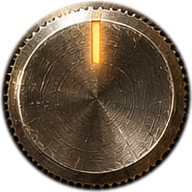
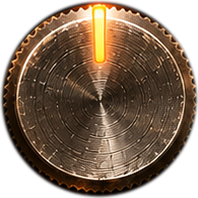
ROTARY: nouveau visuel portrait (8 crans, chrono, voyants, validation) v1.0.70
Claude-Session: https://claude.ai/code/session_01LC4gtLQkEJ3UYNeS2LBYM3

diff --git a/js/rotary.js b/js/rotary.js
@@ -4,17 +4,16 @@
 (function () {
   "use strict";
   var P = "assets/rotary/";
-  var KNOBS = { A: [380, 335], B: [862, 335], C: [380, 772], D: [862, 772] };
+  var KNOBS = { A: [253, 478], B: [690, 478], C: [253, 1003], D: [690, 1003] };
   var NAMES = ["A", "B", "C", "D"];
-  // 10 crans = les 10 symboles gravés sur la couronne (décalage depuis le centre de la molette, en px du visuel)
+  // 8 crans = les 8 symboles gravés sur la couronne (décalage depuis le centre de la molette, en px du visuel 941 × 1672)
   var SYMS = [
-    { n: "triangle", dx: -1, dy: -123, a: 0 }, { n: "cercle", dx: 80, dy: -113, a: 35 }, { n: "carré", dx: 129, dy: -52, a: 68 },
-    { n: "croix", dx: 136, dy: 11, a: 95 }, { n: "losange", dx: 113, dy: 87, a: 128 }, { n: "onde", dx: 53, dy: 136, a: 159 },
-    { n: "étoile", dx: -41, dy: 137, a: 197 }, { n: "cible", dx: -117, dy: 83, a: 235 }, { n: "étoile 2", dx: -145, dy: 10, a: 266 },
-    { n: "losange 2", dx: -120, dy: -75, a: 302 }
+    { n: "triangle", dx: 1, dy: -126, a: 0 }, { n: "cercle", dx: 107, dy: -93, a: 49 }, { n: "carré", dx: 144, dy: 1, a: 90 },
+    { n: "croix", dx: 111, dy: 98, a: 131 }, { n: "losange", dx: 1, dy: 148, a: 180 }, { n: "onde", dx: -108, dy: 100, a: 227 },
+    { n: "étoile", dx: -145, dy: 1, a: 270 }, { n: "cible", dx: -107, dy: -95, a: 311 }
   ];
-  var LEDS = { sys: [157, 1074, "orange"], sync: [157, 1120, "orange"], ready: [157, 1167, "green"] };
-  var BTN = [619, 1130];
+  var LEDS = { sys: [102, 1387, "orange"], sync: [102, 1456, "orange"], ready: [102, 1525, "green"] };
+  var BTN = [468, 1450];
 
   // ---- son : clic métallique synthétisé (aucun fichier à télécharger) ----
   var ac = null;
@@ -59,9 +58,9 @@
     var timeEl = el("zr-time"); timeEl.textContent = "--:--"; stage.appendChild(timeEl);
 
     // liaisons entre molettes
-    var NS = "http://www.w3.org/2000/svg", svg = document.createElementNS(NS, "svg"); svg.setAttribute("class", "zr-links"); svg.setAttribute("viewBox", "0 0 1241 1267");
+    var NS = "http://www.w3.org/2000/svg", svg = document.createElementNS(NS, "svg"); svg.setAttribute("class", "zr-links"); svg.setAttribute("viewBox", "0 0 941 1672");
     var pairs = [[0, 1], [2, 3], [0, 2], [1, 3]], lines = pairs.map(function (p) {
-      var a = KNOBS[NAMES[p[0]]], b = KNOBS[NAMES[p[1]]], dx = b[0] - a[0], dy = b[1] - a[1], L = Math.hypot(dx, dy), u = [dx / L, dy / L], m = 158;
+      var a = KNOBS[NAMES[p[0]]], b = KNOBS[NAMES[p[1]]], dx = b[0] - a[0], dy = b[1] - a[1], L = Math.hypot(dx, dy), u = [dx / L, dy / L], m = 128;
       var ln = document.createElementNS(NS, "line"); ln.setAttribute("x1", a[0] + u[0] * m); ln.setAttribute("y1", a[1] + u[1] * m); ln.setAttribute("x2", b[0] - u[0] * m); ln.setAttribute("y2", b[1] - u[1] * m);
       svg.appendChild(ln); return ln;
     });
@@ -70,24 +69,24 @@
     // molettes
     var knobs = NAMES.map(function (nm, i) {
       var c = KNOBS[nm], k = el("zr-k"); k.style.cssText = "position:absolute;inset:0;pointer-events:none";
-      var ring = at(el("zr-at zr-ring"), c[0], c[1], 214);
-      var cap = at(el("zr-at"), c[0], c[1], 192); var ci = img("knob_" + nm.toLowerCase() + ".png"); ci.className = "zr-cap"; cap.appendChild(ci);
+      var ring = at(el("zr-at zr-ring"), c[0], c[1], 226);
+      var cap = at(el("zr-at"), c[0], c[1], 198); var ci = img("knob_" + nm.toLowerCase() + ".png"); ci.className = "zr-cap"; cap.appendChild(ci);
       var sym = at(el("zr-at zr-sym"), c[0], c[1], 64);
-      var hit = at(el("zr-at zr-hit"), c[0], c[1], 300); hit.style.pointerEvents = "auto"; hit.setAttribute("role", "slider"); hit.tabIndex = 0; hit.setAttribute("aria-label", "Sélecteur " + nm);
+      var hit = at(el("zr-at zr-hit"), c[0], c[1], 280); hit.style.pointerEvents = "auto"; hit.setAttribute("role", "slider"); hit.tabIndex = 0; hit.setAttribute("aria-label", "Sélecteur " + nm);
       k.appendChild(ring); k.appendChild(cap); k.appendChild(sym); k.appendChild(hit); stage.appendChild(k);
       return { k: k, cap: ci, sym: sym, hit: hit, c: c };
     });
     // voyants
     var leds = {};
     Object.keys(LEDS).forEach(function (id) {
-      var d = LEDS[id], w = at(el("zr-at zr-led"), d[0], d[1], 72); w.appendChild(img("led_off.png"));
+      var d = LEDS[id], w = at(el("zr-at zr-led"), d[0], d[1], 80); w.appendChild(img("led_off.png"));
       var on = img(d[2] === "green" ? "led_green.png" : "led_orange.png"); on.className = "on"; w.appendChild(on); stage.appendChild(w); leds[id] = w;
     });
     // bouton
     var btn = el("zr-btn idle"); btn.style.cssText = "position:absolute;inset:0;pointer-events:none"; stage.appendChild(btn);
-    var arm = at(el("zr-at zr-arm"), BTN[0], BTN[1], 186); btn.appendChild(arm);
-    var lensW = at(el("zr-at"), BTN[0], BTN[1], 128); var lens = img("lens.png"); lens.className = "zr-lens"; lensW.appendChild(lens); btn.appendChild(lensW);
-    var bhit = at(el("zr-at zr-bhit"), BTN[0], BTN[1], 190); bhit.style.pointerEvents = "auto"; bhit.setAttribute("role", "button"); bhit.setAttribute("aria-label", "Validation"); btn.appendChild(bhit);
+    var arm = at(el("zr-at zr-arm"), BTN[0], BTN[1], 252); btn.appendChild(arm);
+    var lensW = at(el("zr-at"), BTN[0], BTN[1], 184); var lens = img("lens.png"); lens.className = "zr-lens"; lensW.appendChild(lens); btn.appendChild(lensW);
+    var bhit = at(el("zr-at zr-bhit"), BTN[0], BTN[1], 250); bhit.style.pointerEvents = "auto"; bhit.setAttribute("role", "button"); bhit.setAttribute("aria-label", "Validation"); btn.appendChild(bhit);
 
     function led(id, mode, bp) { // mode : on | off | blink
       var e = leds[id]; e.classList.toggle("on", mode === "on" || mode === "blink"); e.classList.toggle("blink", mode === "blink"); e.style.setProperty("--bp", (bp || 0.5) + "s");
@@ -96,7 +95,7 @@
     function paint(i, animate) {
       var kn = knobs[i], sy = SYMS[S.pos[i]];
       kn.cap.style.transform = "rotate(" + sy.a + "deg)";
-      kn.sym.style.left = "calc(" + (kn.c[0] + sy.dx) + " / 1241 * 100%)"; kn.sym.style.top = "calc(" + (kn.c[1] + sy.dy) + " / 1267 * 100%)";
+      kn.sym.style.left = "calc(" + (kn.c[0] + sy.dx) + " / 941 * 100%)"; kn.sym.style.top = "calc(" + (kn.c[1] + sy.dy) + " / 1672 * 100%)";
       kn.hit.setAttribute("aria-valuenow", S.pos[i]); kn.hit.setAttribute("aria-valuetext", sy.n);
     }
     function paintLinks() { pairs.forEach(function (p, j) { lines[j].classList.toggle("on", !!S.linked(p[0], p[1], S.pos)); }); }
@@ -140,7 +139,7 @@
       } else {
         S.phase = "fail"; btnState("fail"); led("sys", "blink", 0.12); stage.classList.remove("shake"); void stage.offsetWidth; stage.classList.add("shake"); buzz([90, 60, 90, 60, 160]);
         if (opts.onFail) opts.onFail(S.pos.slice());
-        setTimeout(function () { S.phase = "idle"; S.locked = false; btnState("idle"); led("sys", "on"); led("ready", "on"); knobs.forEach(function (k) { k.k.classList.remove("lock"); }); }, 1300);
+        setTimeout(function () { S.phase = "idle"; S.locked = false; btnState("idle"); led("sys", "on"); led("ready", "off"); knobs.forEach(function (k) { k.k.classList.remove("lock"); }); }, 1300);
       }
     }
     bhit.addEventListener("pointerdown", function () {
@@ -160,7 +159,7 @@
 
     // états initiaux
     for (var i = 0; i < 4; i++) paint(i);
-    paintLinks(); led("sys", "on"); led("sync", "off"); led("ready", "on");
+    paintLinks(); led("sys", "on"); led("sync", "off"); led("ready", "off");
 
     function fmt(ms) { var s = Math.max(0, Math.ceil(ms / 1000)); return ("0" + Math.floor(s / 60)).slice(-2) + ":" + ("0" + (s % 60)).slice(-2); }
     return {

diff --git a/index.html b/index.html
@@ -18,19 +18,19 @@
 <script>
 tailwind.config={darkMode:"class",corePlugins:{preflight:false},theme:{extend:{colors:{"paper":"#f3ece0","paperDark":"#e5dcce","inkBlue":"#152438","inkRed":"#a82424","pencil":"#4a4f56","kraft":"#d8c29d","primary":"#ff9f32","secondary":"#a8b5c4","surface":"#23282f","on-surface":"#e1e7f0","error":"#ff5252","success":"#00ffaa","on-primary":"#4a2800","primary-fixed":"#ffdcbf","tertiary-container":"#ff9992","on-tertiary-fixed-variant":"#930013","on-primary-fixed-variant":"#6a3b00","on-secondary-fixed":"#0d1d27","surface-bright":"#323a43","surface-container-lowest":"#070f17","tertiary":"#ffc2bd","surface-dim":"#0c141c","on-secondary":"#22323c","surface-container":"#182029","tertiary-fixed-dim":"#ffb3ad","inverse-surface":"#dbe3ef","error-container":"#93000a","on-tertiary-fixed":"#410004","on-tertiary":"#68000a","on-surface-variant":"#dac2af","surface-tint":"#ffb872","background":"#0c141c","on-tertiary-container":"#920013","secondary-fixed-dim":"#b8c9d6","inverse-on-surface":"#29313a","outline":"#a28d7c","primary-fixed-dim":"#ffb872","on-error":"#690005","surface-container-low":"#141c24","on-primary-container":"#6a3b00","surface-variant":"#2e363e","secondary-fixed":"#d4e5f2","primary-container":"#ff9f32","tertiary-fixed":"#ffdad7","on-secondary-container":"#aabbc7","surface-container-highest":"#2e363e","on-secondary-fixed-variant":"#394953","outline-variant":"#544435","inverse-primary":"#8c5000","on-error-container":"#ffdad6","secondary-container":"#3b4b56","on-background":"#dbe3ef","surface-container-high":"#232b33"},fontFamily:{"hand":["Caveat","cursive"],"notes":["Kalam","cursive"],"typewriter":["Special Elite","monospace"],"tech":["Space Grotesk","sans-serif"],"headline-sm":["Space Grotesk","sans-serif"],"body-md":["Chivo","sans-serif"],"label-sm":["JetBrains Mono","monospace"],"code-serial":["JetBrains Mono","monospace"],"display-timer":["JetBrains Mono","monospace"],"headline-lg-mobile":["Space Grotesk"],"body-sm":["Chivo"],"body-lg":["Chivo"],"headline-lg":["Space Grotesk"],"headline-md":["Space Grotesk"],"display-timer-mobile":["JetBrains Mono"],"label-lg":["JetBrains Mono"],"label-md":["JetBrains Mono"]},fontSize:{"headline-lg-mobile":["28px",{"lineHeight":"36px","letterSpacing":"-0.01em","fontWeight":"700"}],"body-sm":["12px",{"lineHeight":"16px","fontWeight":"400"}],"body-md":["14px",{"lineHeight":"20px","fontWeight":"400"}],"headline-lg":["36px",{"lineHeight":"44px","letterSpacing":"-0.02em","fontWeight":"700"}],"body-lg":["16px",{"lineHeight":"24px","fontWeight":"400"}],"headline-md":["24px",{"lineHeight":"32px","letterSpacing":"-0.01em","fontWeight":"600"}],"code-serial":["14px",{"lineHeight":"20px","letterSpacing":"0.08em","fontWeight":"500"}],"headline-sm":["18px",{"lineHeight":"24px","letterSpacing":"0em","fontWeight":"600"}],"label-sm":["10px",{"lineHeight":"14px","letterSpacing":"0.1em","fontWeight":"500"}],"display-timer":["56px",{"lineHeight":"64px","letterSpacing":"-0.04em","fontWeight":"700"}],"display-timer-mobile":["36px",{"lineHeight":"44px","letterSpacing":"-0.03em","fontWeight":"700"}],"label-lg":["14px",{"lineHeight":"20px","letterSpacing":"0.05em","fontWeight":"600"}],"label-md":["12px",{"lineHeight":"16px","letterSpacing":"0.06em","fontWeight":"500"}]},spacing:{"space-lg":"1.5rem","gutter-sm":"0.75rem","space-xs":"0.25rem","margin-lg":"2rem","gutter":"1rem","space-md":"1rem","space-xl":"2.5rem","margin":"1rem","gutter-lg":"1.5rem","space-sm":"0.5rem","margin-md":"1.5rem"}}}};
 </script>
-<link rel="stylesheet" href="css/style.css?v=69">
-<link rel="stylesheet" href="css/rotary.css?v=69">
+<link rel="stylesheet" href="css/style.css?v=70">
+<link rel="stylesheet" href="css/rotary.css?v=70">
 </head>
 <body>
 <main id="app" aria-live="polite"></main>
 <div id="toast" role="status"></div>
 <script src="https://cdn.jsdelivr.net/npm/@supabase/supabase-js@2/dist/umd/supabase.min.js"></script>
-<script src="js/config.js?v=69"></script>
-<script src="js/fx.js?v=69"></script>
-<script src="js/hub.js?v=69"></script>
-<script src="js/digicode.js?v=69"></script>
-<script src="js/rotary.js?v=69"></script>
-<script src="js/app.js?v=69"></script>
+<script src="js/config.js?v=70"></script>
+<script src="js/fx.js?v=70"></script>
+<script src="js/hub.js?v=70"></script>
+<script src="js/digicode.js?v=70"></script>
+<script src="js/rotary.js?v=70"></script>
+<script src="js/app.js?v=70"></script>
 <script>if("serviceWorker" in navigator){window.addEventListener("load",function(){navigator.serviceWorker.register("sw.js").catch(function(){});});}</script>
 </body>
 </html>

diff --git a/css/rotary.css b/css/rotary.css
@@ -5,21 +5,21 @@
 .zr-bar{flex:none;width:100%;box-sizing:border-box;height:calc(max(env(safe-area-inset-top,0px),6px) + 40px);padding:max(env(safe-area-inset-top,0px),6px) 10px 0;display:flex;align-items:center}
 .zr-back{height:32px;padding:0 12px;font:700 13px "JetBrains Mono",ui-monospace,monospace;background:#1a1e24;border:1px solid #373f4a;color:#ff9f32;border-radius:8px;letter-spacing:.06em;white-space:nowrap;cursor:pointer}
 .zr-wrap{flex:1;min-height:0;width:100%;display:flex;align-items:center;justify-content:center}
-.zr-stage{position:relative;width:min(100vw,calc((100dvh - 52px) * 1241 / 1267));aspect-ratio:1241/1267;
+.zr-stage{position:relative;width:min(100vw,calc((100dvh - 52px) * 941 / 1672));aspect-ratio:941/1672;
   filter:drop-shadow(0 10px 28px #000);container-type:inline-size}
 .zr-stage.shake{animation:zr-shake .45s steps(2,end) 1}
 @keyframes zr-shake{0%{transform:translate(0,0)}25%{transform:translate(-5px,2px)}50%{transform:translate(5px,-2px)}75%{transform:translate(-3px,0)}100%{transform:none}}
 .zr-stage>*{position:absolute}
 .zr-panel{inset:0;width:100%;height:100%;display:block;pointer-events:none}
 /* positions en % de l'image 1241 × 1267 (variables posées en JS) */
-.zr-at{position:absolute;left:calc(var(--x) / 1241 * 100%);top:calc(var(--y) / 1267 * 100%);width:calc(var(--w) / 1241 * 100%);height:calc(var(--w) / 1267 * 100%);transform:translate(-50%,-50%)}
+.zr-at{position:absolute;left:calc(var(--x) / 941 * 100%);top:calc(var(--y) / 1672 * 100%);width:calc(var(--w) / 941 * 100%);height:calc(var(--w) / 1672 * 100%);transform:translate(-50%,-50%)}
 .zr-at img{display:block;width:100%;height:100%;pointer-events:none}
 /* chrono */
-.zr-tpatch{left:calc(990 / 1241 * 100%);top:calc(33 / 1267 * 100%);width:calc(164 / 1241 * 100%);height:calc(64 / 1267 * 100%);
+.zr-tpatch{left:calc(668 / 941 * 100%);top:calc(80 / 1672 * 100%);width:calc(194 / 941 * 100%);height:calc(72 / 1672 * 100%);
   background:radial-gradient(120% 140% at 50% 45%,#150e06,#0c0804);box-shadow:0 0 6px 4px #0c0804}
-.zr-time{left:calc(990 / 1241 * 100%);top:calc(33 / 1267 * 100%);width:calc(164 / 1241 * 100%);height:calc(64 / 1267 * 100%);display:flex;align-items:center;justify-content:center;
-  font-family:'Saira Stencil One','JetBrains Mono',monospace;font-size:calc(58 / 1241 * 100cqw);line-height:1;letter-spacing:.02em;color:#ef8e2d;
-  text-shadow:0 0 8px rgba(239,142,45,.55),0 0 2px #ffb25a;font-variant-numeric:tabular-nums}
+.zr-time{left:calc(668 / 941 * 100%);top:calc(80 / 1672 * 100%);width:calc(194 / 941 * 100%);height:calc(72 / 1672 * 100%);display:flex;align-items:center;justify-content:center;
+  font-family:'Saira Stencil One','JetBrains Mono',monospace;font-size:calc(60 / 941 * 100cqw);line-height:1;letter-spacing:.02em;color:#f77d19;
+  text-shadow:0 0 8px rgba(247,125,25,.55),0 0 2px #ffb25a;font-variant-numeric:tabular-nums}
 .zr-time.al{color:#ff4a3a;text-shadow:0 0 10px rgba(255,60,40,.7);animation:zr-bl var(--zp,1s) steps(1,end) infinite}
 /* molettes */
 .zr-cap{transition:transform .09s cubic-bezier(.3,1.6,.5,1);will-change:transform}
@@ -29,7 +29,7 @@
 .zr-ring{border-radius:50%;pointer-events:none;box-shadow:0 0 0 0 rgba(255,150,40,0);transition:box-shadow .15s}
 .zr-k.rot .zr-ring{box-shadow:0 0 0 3px rgba(255,150,40,.35),0 0 22px 6px rgba(255,130,30,.28)}
 .zr-k.ok .zr-ring{box-shadow:0 0 0 3px rgba(0,255,170,.4),0 0 22px 6px rgba(0,255,170,.25)}
-.zr-sym{width:calc(64 / 1241 * 100%);height:calc(64 / 1267 * 100%);transform:translate(-50%,-50%);border-radius:50%;pointer-events:none;mix-blend-mode:screen;
+.zr-sym{width:calc(64 / 941 * 100%);height:calc(72 / 1672 * 100%);transform:translate(-50%,-50%);border-radius:50%;pointer-events:none;mix-blend-mode:screen;
   background:radial-gradient(circle,rgba(255,170,50,.85) 0,rgba(255,120,20,.42) 38%,rgba(255,100,10,0) 70%);transition:left .09s,top .09s,opacity .15s}
 .zr-k.ok .zr-sym{background:radial-gradient(circle,rgba(120,255,200,.8) 0,rgba(0,220,140,.4) 38%,rgba(0,200,120,0) 70%)}
 .zr-links{inset:0;width:100%;height:100%;pointer-events:none;overflow:visible}

diff --git a/js/app.js b/js/app.js
@@ -5,7 +5,7 @@
   var app = document.getElementById("app");
   var toastEl = document.getElementById("toast");
   var KEY = "zt_session";
-  var APP_VERSION = "1.0.69";
+  var APP_VERSION = "1.0.70";
   var session = null; // { code, player_id, token }
   var view = null;    // dernière vue reçue du serveur (propre à ce joueur)
   var channel = null;
@@ -494,7 +494,7 @@ ${solo}
     if (!rotApi || !document.getElementById("ztrot")) {
       stopTimer(); clear();
       app.innerHTML = '<div id="ztrot"></div>';
-      if (!rotTarget) rotTarget = [0, 1, 2, 3].map(function () { return Math.floor(Math.random() * 10); });
+      if (!rotTarget) rotTarget = [0, 1, 2, 3].map(function () { return Math.floor(Math.random() * 8); });
       rotApi = ZTRotary.mount(document.getElementById("ztrot"), {
         onBack: goHub,
         onValidate: function (p) { return p.every(function (v, i) { return v === rotTarget[i]; }); }

diff --git a/sw.js b/sw.js
@@ -1,6 +1,6 @@
 // Service worker minimal : requis pour l'installation. Réseau d'abord (le jeu a besoin du serveur),
 // copie en cache de l'interface pour démarrer l'app même si le réseau est lent.
-var CACHE = "zt-shell-v55";
+var CACHE = "zt-shell-v56";
 self.addEventListener("install", function (e) { self.skipWaiting(); });
 self.addEventListener("activate", function (e) {
   e.waitUntil(caches.keys().then(function (ks) { return Promise.all(ks.filter(function (k) { return k !== CACHE; }).map(function (k) { return caches.delete(k); })); }).then(function () { return self.clients.claim(); }));

diff --git a/rotary.html b/rotary.html
@@ -8,7 +8,7 @@
 <script src="js/rotary.js?v=1"></script>
 <script>
   // Démo autonome : combinaison tirée au hasard, chrono de 2 min 15. (?debug affiche la solution)
-  var target = [0, 1, 2, 3].map(function () { return Math.floor(Math.random() * 10); });
+  var target = [0, 1, 2, 3].map(function () { return Math.floor(Math.random() * 8); });
   var R = ZTRotary.mount(document.getElementById("app"), {
     backLabel: "← BOMBE", onBack: function () { location.href = "./"; },
     onValidate: function (p) { return p.every(function (v, i) { return v === target[i]; }); }
